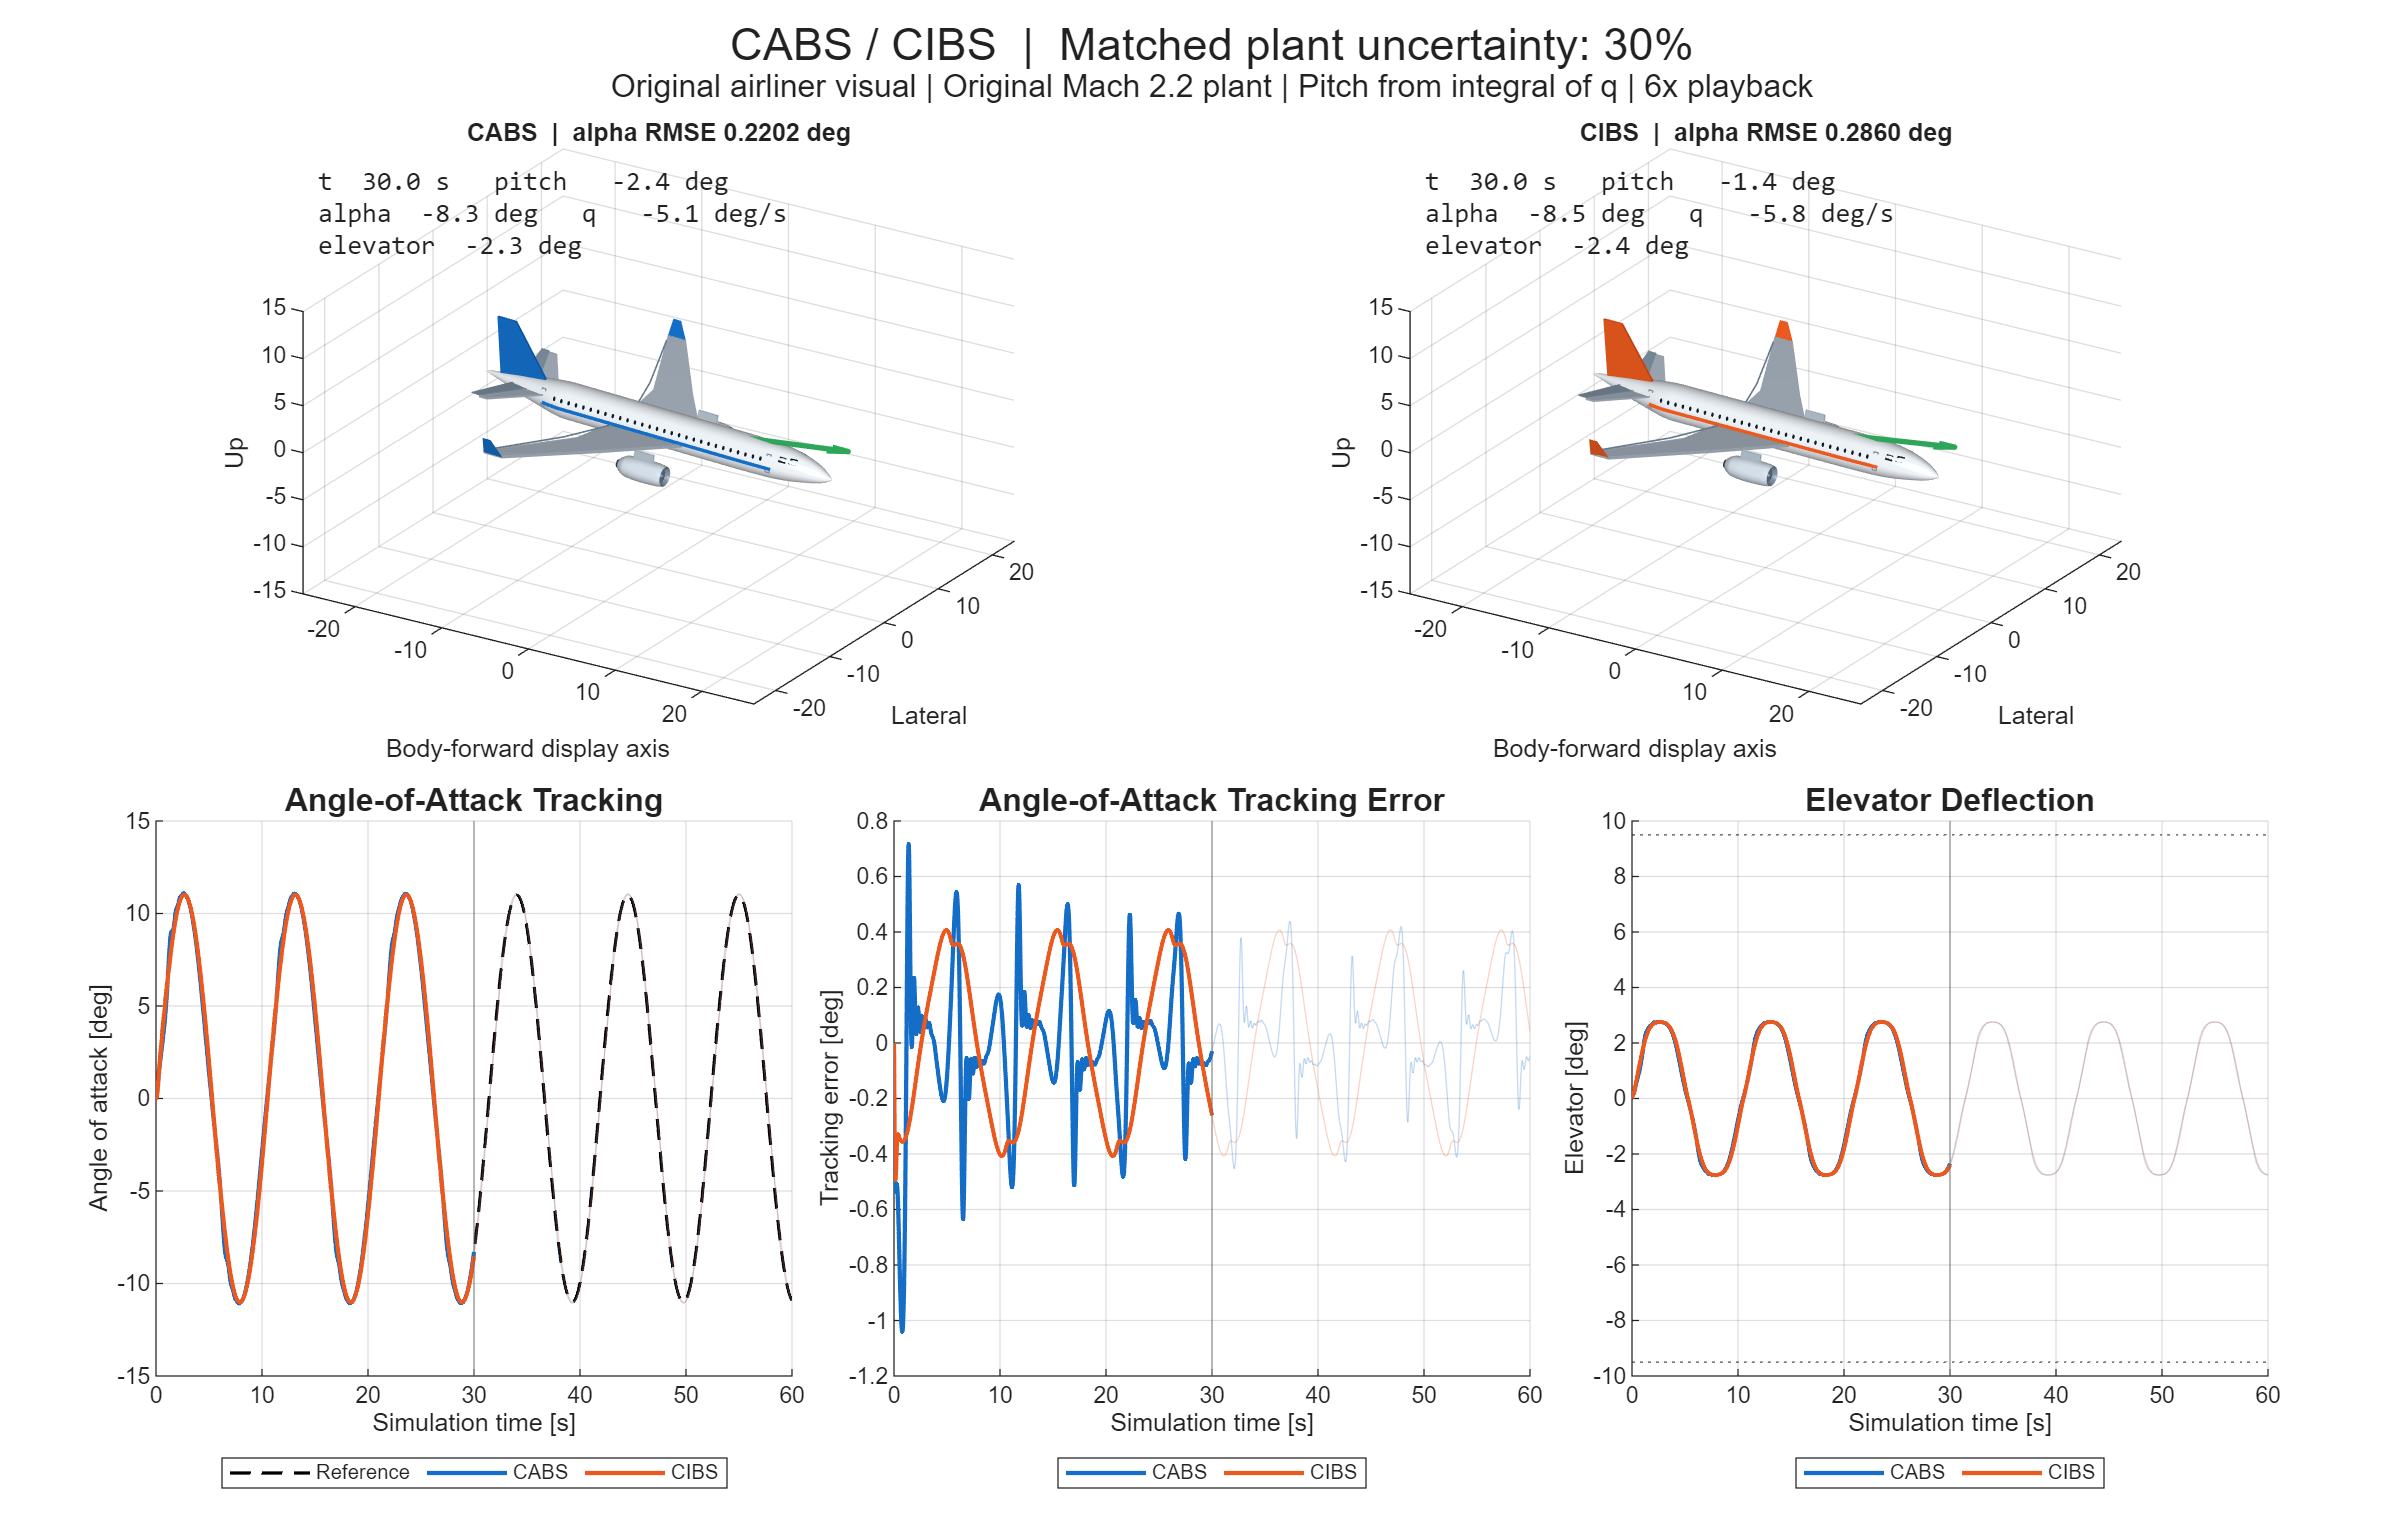
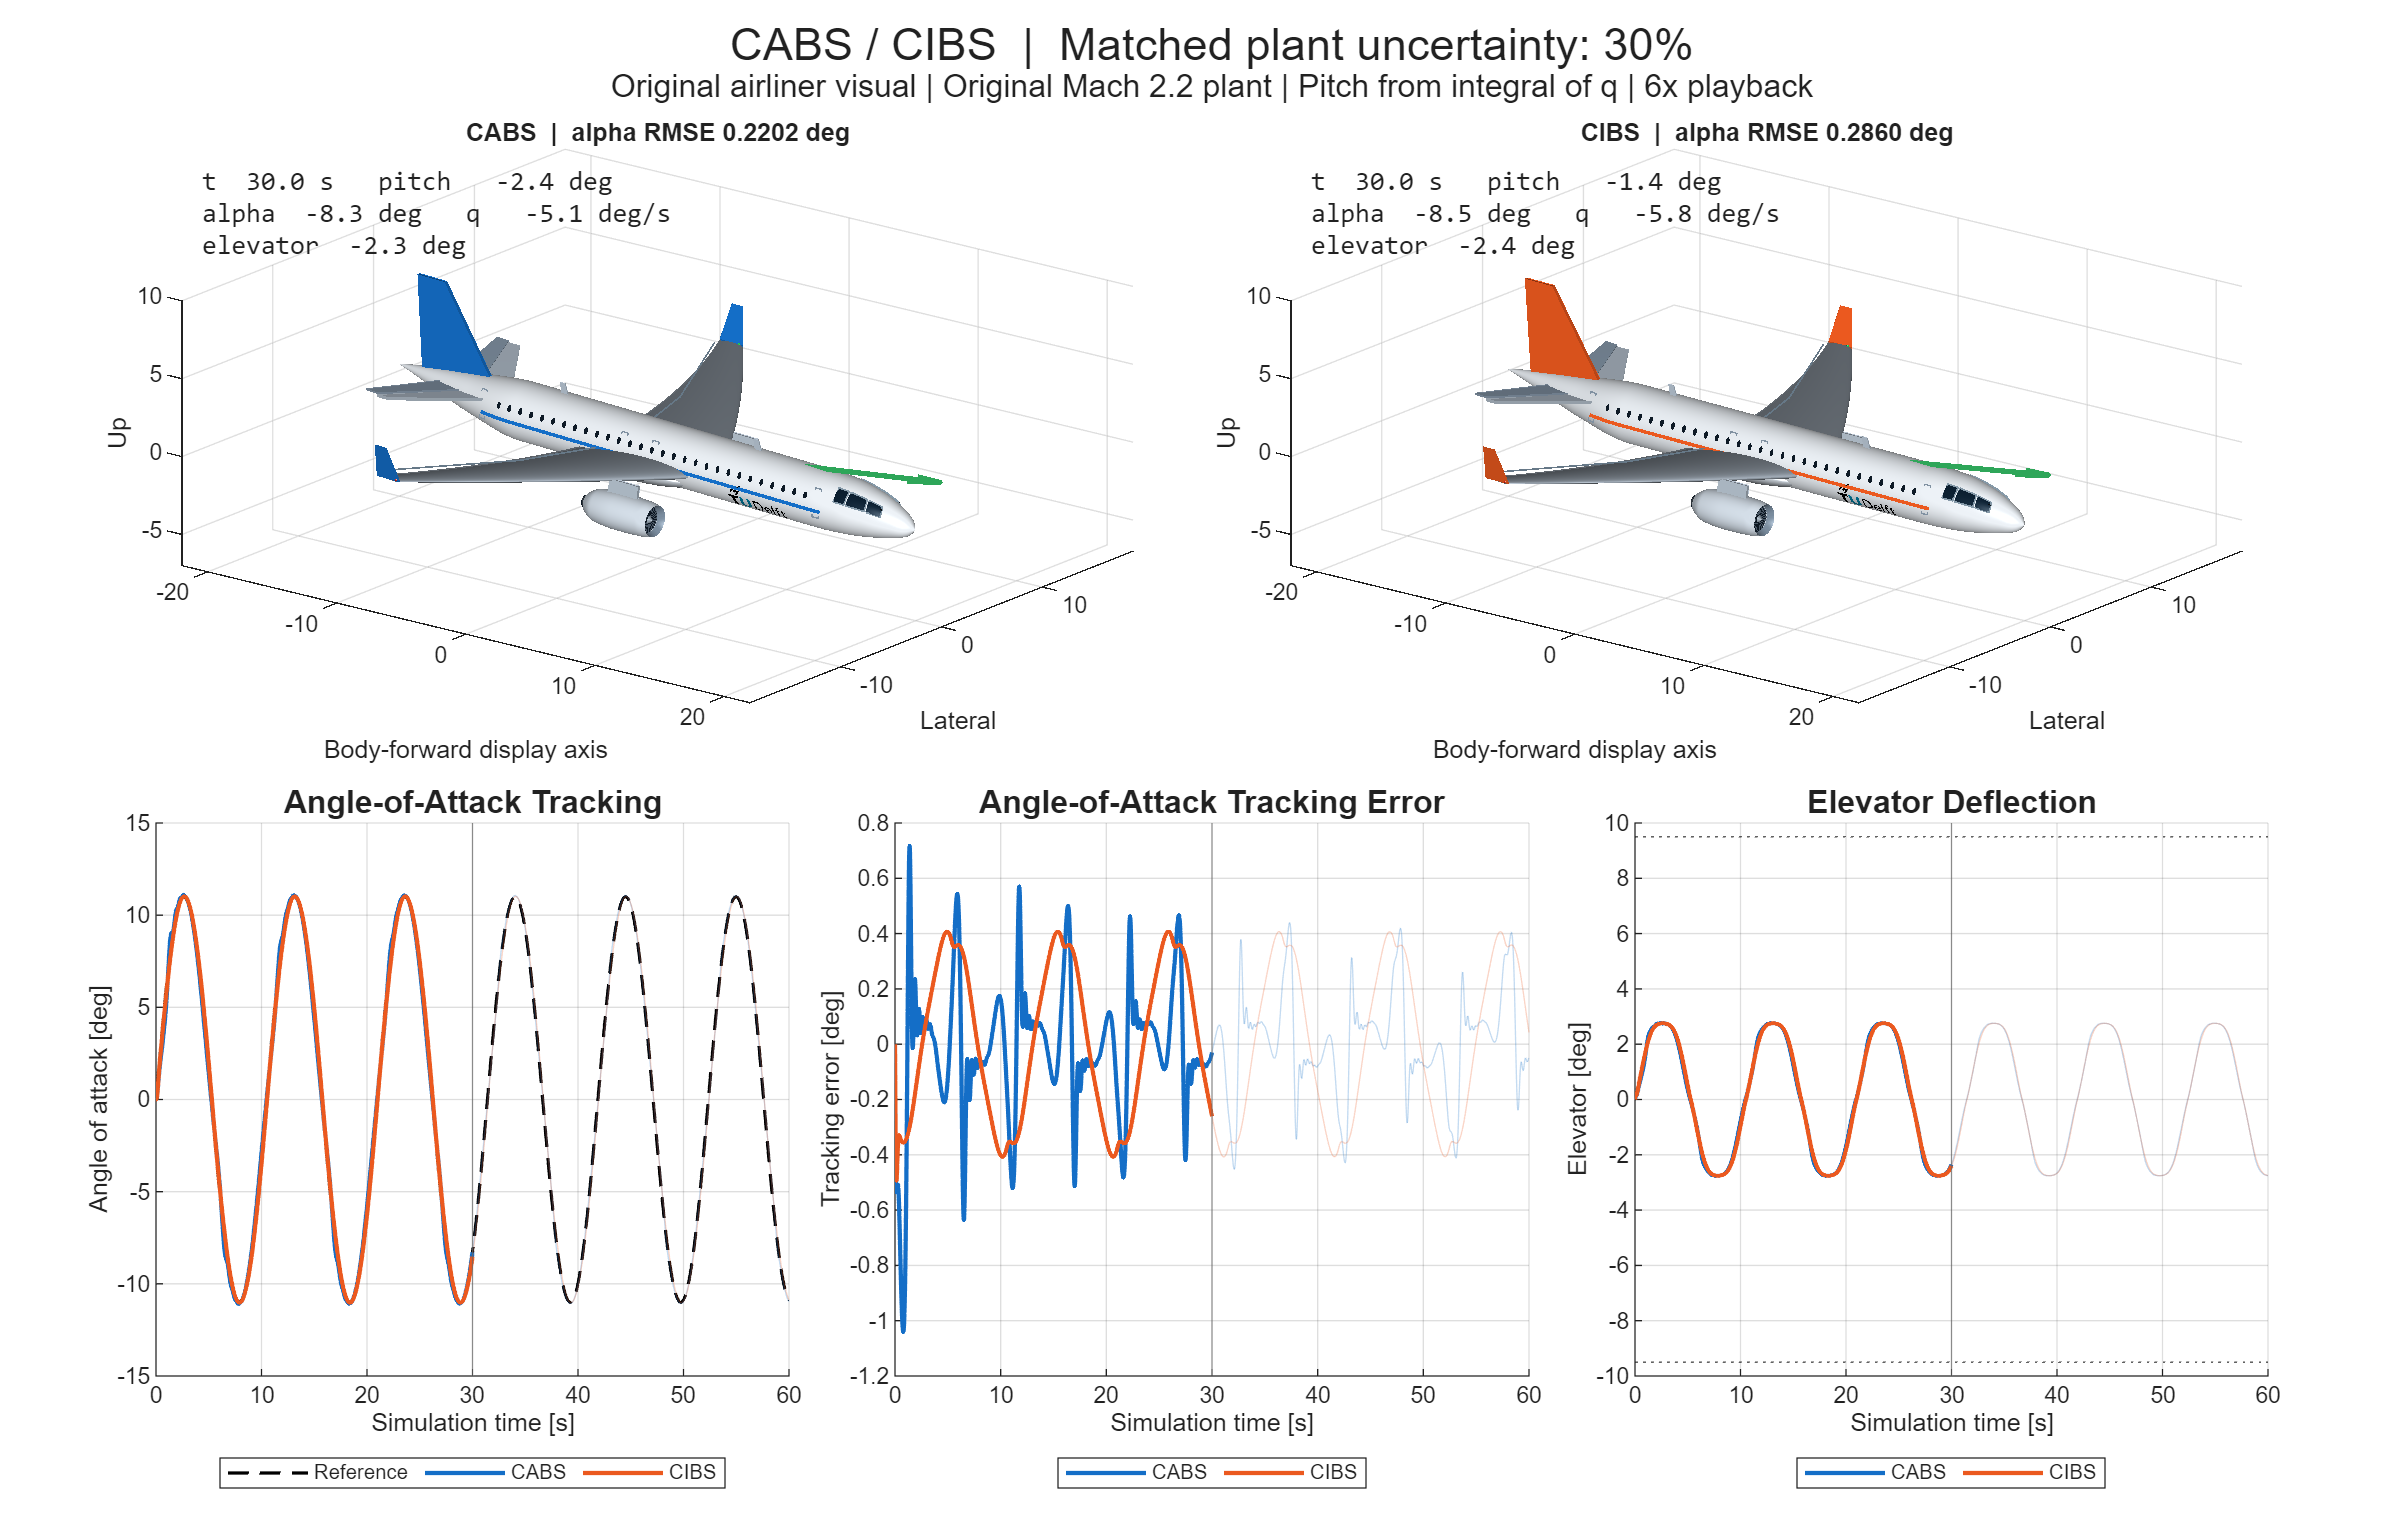
Refine airliner cockpit and geometry with TU Delft academic livery

diff --git a/airliner_mesh.m b/airliner_mesh.m
@@ -1,21 +1,25 @@
 function elevator = airliner_mesh(parent,color)
 %AIRLINER_MESH Original generic narrow-body airliner for MATLAB graphics.
-% No imported mesh, manufacturer drawings, logos, or airline liveries.
+% Original aircraft geometry; TU Delft artwork is credited in assets/branding.
 % x forward, y lateral, z upward. Dimensions are visual proportions only.
-x = linspace(-20,20,150);
+x = linspace(-20,20,220);
 stations = [-20 -19 -17 -14 -10 9 13 15 17 18.5 19.5 20];
-radii = [0.03 0.25 0.7 1.3 1.85 1.85 1.8 1.65 1.3 0.88 0.42 0.03];
+radii = [0.03 0.25 0.7 1.3 1.85 1.85 1.85 1.76 1.45 1.02 0.57 0.03];
 r = interp1(stations,radii,x,'pchip');
 zc = interp1(stations,[0.65 0.6 0.45 0.2 0 0 0 0 -0.06 -0.18 -0.3 -0.35],x,'pchip');
 shell(parent,x,r,zc,0,[0.93 0.95 0.97]);
 wingColor = [0.72 0.77 0.82]; dark = [0.055 0.10 0.15];
+% Smooth belly/wing-root fairing rather than wings intersecting a bare tube.
+[fx,fy,fz] = ellipsoid(-1.0,0,-1.1,5.0,2.3,0.9,32);
+surf(fx,fy,fz,'Parent',parent,'FaceColor',[.84 .87 .90],'EdgeColor','none');
+logoPath = fullfile(fileparts(mfilename('fullpath')),'assets','branding','tu_delft.png');
+[logo,~,logoAlpha] = imread(logoPath);
 for side = [-1 1]
     % Tapered wings with thickness, sweep, dihedral, and small winglets.
-    foil(parent,[4 side*1.5 -0.45; -1 side*8 0; -7.5 side*17 0.9; ...
-        -9.6 side*17 0.9; -5 side*7 -0.1; -4.5 side*1.5 -0.45],0.17,wingColor);
-    foil(parent,[-7.5 side*17 0.9; -8.5 side*17.6 2.6; ...
-        -9.4 side*17.6 2.6; -9.6 side*17 0.9],0.05,color);
-    line([-4.2 -6.0 -9.1],side*[2 8 16],[-0.24 0.17 1.01], ...
+    wing(parent,side,[1.4 7.5 17],[4 .3 -6.7],[8.5 5.6 1.8],[-.45 .0 .65],wingColor);
+    foil(parent,[-6.7 side*17 .65; -7.3 side*17.7 2.85; ...
+        -8.2 side*17.7 2.85; -8.5 side*17 .65],0.045,color);
+    line([-3.2 -4.5 -8.1],side*[2 8 16],[-0.14 0.25 .84], ...
         'Parent',parent,'Color',[0.40 0.47 0.53],'LineWidth',0.6);
     % Fixed tailplane; the separate rear section animates with the elevator.
     foil(parent,[-12 side*0.8 0.5; -15.8 side*6.5 1.1; ...
@@ -28,10 +32,10 @@ for side = [-1 1]
     shell(parent,ex,er,-2.05*ones(size(ex)),side*5.9,[0.83 0.87 0.91]);
     shell(parent,[4.5 4.35 4.05],[1 .89 .82],[-2.05 -2.05 -2.05],side*5.9,[0.48 0.55 0.62]);
     disk(parent,4.02,side*5.9,-2.05,0.82,dark);
-    for blade = linspace(0,2*pi,19)
-        line([4.06 4.06],side*5.9+[0.22*cos(blade) .78*cos(blade+0.15)], ...
-            -2.05+[0.22*sin(blade) .78*sin(blade+0.15)], ...
-            'Parent',parent,'Color',[0.32 0.38 0.44],'LineWidth',0.65);
+    for blade = linspace(0,2*pi,25)
+        ba = blade+[0 .12 .25 .10]; br = [.24 .79 .79 .24];
+        panel(parent,[4.06*ones(4,1),side*5.9+br(:).*cos(ba(:)), ...
+            -2.05+br(:).*sin(ba(:))],[.32 .38 .44]);
     end
     shell(parent,[4.07 4.30],[0.23 0.02],[-2.05 -2.05],side*5.9,[0.56 0.61 0.66]);
     shell(parent,[-0.9 -0.55],[0.4 .62],[-2.05 -2.05],side*5.9,[0.27 0.31 0.35]);
@@ -44,15 +48,36 @@ for side = [-1 1]
         vy = side*(sqrt(max(0,rr.^2-(vz-zz).^2))+0.018);
         panel(parent,[vx vy vz],dark);
     end
-    % Cockpit panes follow the tapered nose surface.
-    for cx = [15.1 16.2]
-        vx = [cx-.4; cx+.4; cx+.35; cx-.35]; vz = [0.72;0.68;1.14;1.20];
-        rr = interp1(stations,radii,vx,'pchip'); zz = interp1(x,zc,vx,'pchip');
-        vy = side*(sqrt(max(0,rr.^2-(vz-zz).^2))+0.025);
-        panel(parent,[vx vy vz],dark);
+    % Six wraparound cockpit panes, individual metal frames, and wipers.
+    cockpitX = {[17.2 18.1 18.0 17.1], [15.8 17.05 16.95 15.8], ...
+        [14.9 15.65 15.65 14.9]};
+    for pane = 1:3
+        vx = cockpitX{pane}(:); phi = [.37 .38 .91 .91].';
+        rr = interp1(stations,radii,vx,'pchip')+.035;
+        zz = interp1(x,zc,vx,'pchip');
+        v = [vx, side*rr.*cos(phi), zz+rr.*sin(phi)];
+        % Tessellate the glass onto the curved skin; a single flat polygon
+        % would sink into the fuselage and disappear behind its white hull.
+        [uu,vv] = meshgrid(linspace(0,1,12));
+        weights = cat(3,(1-uu).*(1-vv),uu.*(1-vv),uu.*vv,(1-uu).*vv);
+        gx = sum(weights.*reshape(vx,1,1,4),3);
+        gp = sum(weights.*reshape(phi,1,1,4),3);
+        gr = interp1(stations,radii,gx,'pchip')+.055;
+        gz = interp1(x,zc,gx,'pchip');
+        surf(gx,side*gr.*cos(gp),gz+gr.*sin(gp),'Parent',parent, ...
+            'FaceColor',[.055 .15 .23],'EdgeColor','none', ...
+            'FaceLighting','gouraud','SpecularStrength',.7);
+        line(v([1:4 1],1),v([1:4 1],2),v([1:4 1],3), ...
+            'Parent',parent,'Color',[.52 .60 .66],'LineWidth',.65);
+        if pane==1
+            w = .7*v(1,:)+.3*v(4,:);
+            e = .35*v(2,:)+.65*v(3,:);
+            line([w(1) e(1)],[w(2) e(2)],[w(3) e(3)]+.025, ...
+                'Parent',parent,'Color',[.04 .05 .06],'LineWidth',.8);
+        end
     end
     % Door outlines and a simple original accent strip.
-    for dx = [-12.5 13.6]
+    for dx = [-12.5 -1.4 1.0 13.6]
         vz = [-.65 -.65 1.15 1.15 -.65]; vx = dx+[-.23 .23 .23 -.23 -.23];
         rr = interp1(stations,radii,vx,'pchip'); zz = interp1(x,zc,vx,'pchip');
         vy = side*(sqrt(max(0,rr.^2-(vz-zz).^2))+0.025);
@@ -62,13 +87,51 @@ for side = [-1 1]
     sz = interp1(x,zc,sx,'pchip');
     line(sx,side*sqrt(sr.^2-(-0.2-sz).^2)*1.005,-0.2*ones(size(sx)), ...
         'Parent',parent,'Color',color,'LineWidth',1.3);
+    % Official logo, retaining its full artwork and clear-space margins.
+    % Cylindrical decal preserves aspect ratio in fuselage surface distance.
+    lx = linspace(6,12,70);
+    if side>0, lx=fliplr(lx); end % Read correctly from either side.
+    phi = linspace(.50,.50-6/1.85*size(logo,1)/size(logo,2),40).';
+    [xx,pp] = meshgrid(lx,phi);
+    rr = interp1(stations,radii,xx,'pchip')+.035;
+    zz = interp1(x,zc,xx,'pchip');
+    surf(xx,side*rr.*cos(pp),zz+rr.*sin(pp),'Parent',parent, ...
+        'CData',logo,'FaceColor','texturemap','EdgeColor','none', ...
+        'AlphaData',double(logoAlpha)/255,'AlphaDataMapping','none', ...
+        'FaceAlpha','texturemap','FaceLighting','none');
+    % Navigation lights at the original wingtip geometry.
+    [nx,ny,nz] = sphere(8);
+    navColor = [1 .12 .08]; if side>0, navColor=[.12 .9 .4]; end
+    surf(-7.0+.09*nx,side*17+.09*ny,.72+.09*nz,'Parent',parent, ...
+        'FaceColor',navColor,'EdgeColor','none','FaceLighting','none');
 end
 foil(parent,[-12.7 0 1.1; -16.7 0 6.8; -18.8 0 6.8; -18.2 0 0.9],0.13,color);
+% Small dorsal antennae and tail rudder seam.
+for ax = [-7 8]
+    foil(parent,[ax 0 1.85;ax-.25 0 2.5;ax-.65 0 2.5;ax-.5 0 1.85],.045,[.7 .75 .8]);
+end
+line([-17.9 -18.3],[.145 .145],[1.3 6.3],'Parent',parent,'Color',color*.65,'LineWidth',.6);
 elevator = hgtransform('Parent',parent);
 % animate_airbus_controllers sets this transform's hinge to [-13 0 0.5].
 for side = [-1 1]
     foil(elevator,[-1.4 side*0.8 0; -3.7 side*6.5 0.6; ...
         -4.6 side*6.5 0.6; -3.4 side*0.8 0],0.06,[0.55 0.62 0.69]);
+end
+end
+
+function wing(parent,side,span,leading,chord,height,color)
+% Lofted airfoil with rounded nose, camber, and a thin trailing edge.
+y = linspace(span(1),span(end),65).';
+u = (1-cos(linspace(0,pi,64)))/2;
+c = interp1(span,chord,y,'pchip'); le = interp1(span,leading,y,'pchip');
+z = interp1(span,height,y,'pchip');
+profile = 5*.105*(.2969*sqrt(u)-.1260*u-.3516*u.^2+.2843*u.^3-.1036*u.^4);
+xx = le-c*u; yy = side*repmat(y,1,numel(u));
+camber = .018*sin(pi*u);
+for surfaceSide = [-1 1]
+    zz = z+c*(camber+surfaceSide*profile);
+    surf(xx,yy,zz,'Parent',parent,'FaceColor',color,'EdgeColor','none', ...
+        'FaceLighting','gouraud','SpecularStrength',.3);
 end
 end
 

diff --git a/animate_airbus_controllers.m b/animate_airbus_controllers.m
@@ -52,8 +52,8 @@ subtitle(tl,sprintf('Original airliner visual | Original Mach 2.2 plant | Pitch 
 for j = 1:2
     ax = nexttile(tl,(j-1)*3+1,[1 3]);
     hold(ax,'on'); axis(ax,'equal');
-    xlim(ax,[-26 26]); ylim(ax,[-24 24]); zlim(ax,[-15 15]);
-    view(ax,32,23); grid(ax,'on');
+    xlim(ax,[-22 22]); ylim(ax,[-19 19]); zlim(ax,[-7 10]);
+    view(ax,38,18); grid(ax,'on');
     xlabel(ax,'Body-forward display axis'); ylabel(ax,'Lateral'); zlabel(ax,'Up');
     title(ax,sprintf('%s  |  alpha RMSE %.4f deg',names{j},AlphaRMSE_deg(j)));
     body(j) = hgtransform('Parent',ax); %#ok<AGROW>

diff --git a/README.md b/README.md
@@ -8,7 +8,11 @@ MATLAB and Simulink experiments comparing command-filtered adaptive backstepping
 
 The GIF shows freshly simulated responses over **60 seconds**, played at **6x speed**. Both controllers use the same physical plant with **30% maximum nonuniform pitch-parameter uncertainty**. CABS starts with nominal parameter estimates and adapts; CIBS retains nominal control effectiveness and uses measured pitch acceleration.
 
-The airliner is **original procedural geometry** with a generic modern narrow-body silhouette: a smooth fuselage, swept wings and winglets, twin turbofan nacelles, cockpit glazing, and cabin windows. No third-party aircraft mesh, manufacturer drawings, logos, or airline liveries are included. It is not an official Airbus or Boeing asset. The underlying project plant runs at **Mach 2.2**. It contains angle of attack and pitch rate, with no roll, yaw, position, or altitude dynamics. Displayed pitch is reconstructed as `cumtrapz(t,q)` with zero initial pitch; the green velocity-direction arrow uses `gamma = pitch - alpha`. The airframes remain at the display origin. Elevator motion follows the applied command without visual amplification.
+The airliner is **original procedural geometry** with proportions inspired by modern narrow-body aircraft, including the A320: a rounded nose, smooth fuselage, curved airfoil wings and winglets, wing-root fairings, twin turbofan nacelles with recessed fans, six framed cockpit panes, cabin windows, antennas, and navigation lights. No third-party aircraft mesh or manufacturer drawings are included. It is not an official Airbus or Boeing asset. [Detailed aircraft preview](docs/media/airliner_detail.png).
+
+The requested academic livery uses TU Delft's official logo artwork from its [identity resources](https://www.tudelft.nl/en/tu-delft-corporate-design). The logo remains TU Delft's property and is excluded from the MIT license; see the [artwork notice](assets/branding/NOTICE.md). The livery does not imply university or manufacturer endorsement.
+
+The underlying project plant runs at **Mach 2.2**. It contains angle of attack and pitch rate, with no roll, yaw, position, or altitude dynamics. Displayed pitch is reconstructed as `cumtrapz(t,q)` with zero initial pitch; the green velocity-direction arrow uses `gamma = pitch - alpha`. The airframes remain at the display origin. Elevator motion follows the applied command without visual amplification.
 
 The lower plots show angle-of-attack tracking, tracking error, and elevator deflection. Faint curves show the complete response; solid curves progress with the animation. [Static preview](docs/media/controller_comparison.png) · [Numeric metrics](docs/media/controller_metrics.csv).
 
@@ -140,4 +144,4 @@ Both controllers share backstepping gains `c1 = 4`, `c2 = 8`, a second-order com
 
 ## License
 
-Released under the [MIT License](LICENSE).
+Project code and original aircraft geometry are released under the [MIT License](LICENSE). TU Delft logo artwork is excluded; see [assets/branding/NOTICE.md](assets/branding/NOTICE.md).

diff --git a/assets/branding/NOTICE.md b/assets/branding/NOTICE.md
@@ -1,0 +1,11 @@
+# TU Delft artwork
+
+`tu_delft.png` is the unmodified RGB PNG (`logo_rgb@16x.png`) from TU Delft's official logo pack, downloaded 23 October 2026.
+
+Source: [TU Delft Corporate Identity](https://www.tudelft.nl/en/tu-delft-corporate-design)
+
+Original pack: https://filelist.tudelft.nl/Websections/Huisstijl/Nieuwe%20downloads%202025/TUDelft_Logos.zip.zip
+
+The TU Delft name and logo belong to Delft University of Technology. This artwork is **excluded from this repository's MIT license**. Availability in the official download pack does not establish a general open-content license. Consult TU Delft's identity guidelines and obtain any permissions required for your own use.
+
+The requested livery identifies the academic context of this project. It does not imply university, Airbus, or Boeing endorsement. The aircraft geometry is original procedural MATLAB geometry and is not a manufacturer-supplied model.
